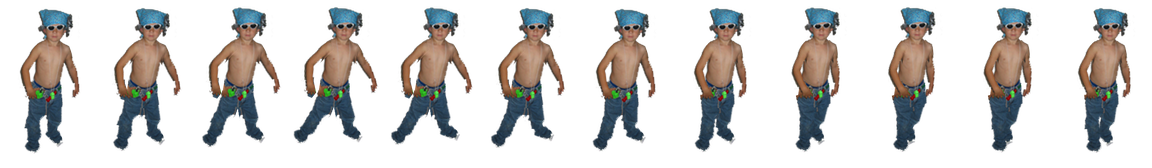
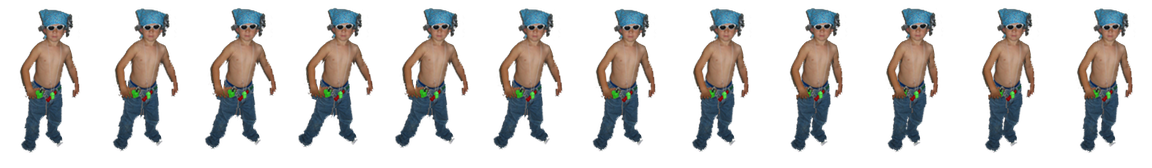
fix(v2): use gentler walking cycle for Spiro

diff --git a/v2/README.md b/v2/README.md
@@ -14,8 +14,9 @@ Original edition or CD-ROM are needed.
   corner trees, and a sandy strip leading to the enclosures.
 - Two-leaf cage doors open on escape and close when each animal returns.
   A large, outlined gold star in the middle marks each successfully filled cage.
-- Spiro and all six animals use the selected livelier 12-frame walking cycles,
-  reusing the original photographic/crayon pixels. Spiro walks while moving;
+- Spiro uses the gentler B walking cycle; all six animals keep the livelier
+  cycles. Each has 12 frames reusing the original photographic/crayon pixels.
+  Spiro walks while moving;
   animals animate while wandering, including inside cages. Idle, carried, and
   reduced-motion sprites use the original still artwork. Pausing freezes frames.
   The illustrated side/back experiments and other prototypes are not included.

diff --git a/v2/assets/animations/README.md b/v2/assets/animations/README.md
@@ -1,9 +1,9 @@
 # Approved walk cycles
 
-The selected direction is **livelier motion for all seven characters**.
+The selected direction is **gentler motion for Spiro, livelier motion for all six animals**.
 
-- `guide-walk.png`: Spiro's photographic cutout, articulated around shoulders,
-  hips, and knees, with a small body bob. This is not a new side-view drawing.
+- `guide-walk.png`: Spiro's gentler B photographic cutout cycle, articulated
+  around shoulders, hips, and knees, with a small body bob. This is not a new side-view drawing.
 - Species sheets: continuous deformations of each original crayon drawing,
   emphasizing legs, trunks, tails, flippers, or slithering as appropriate.
 
